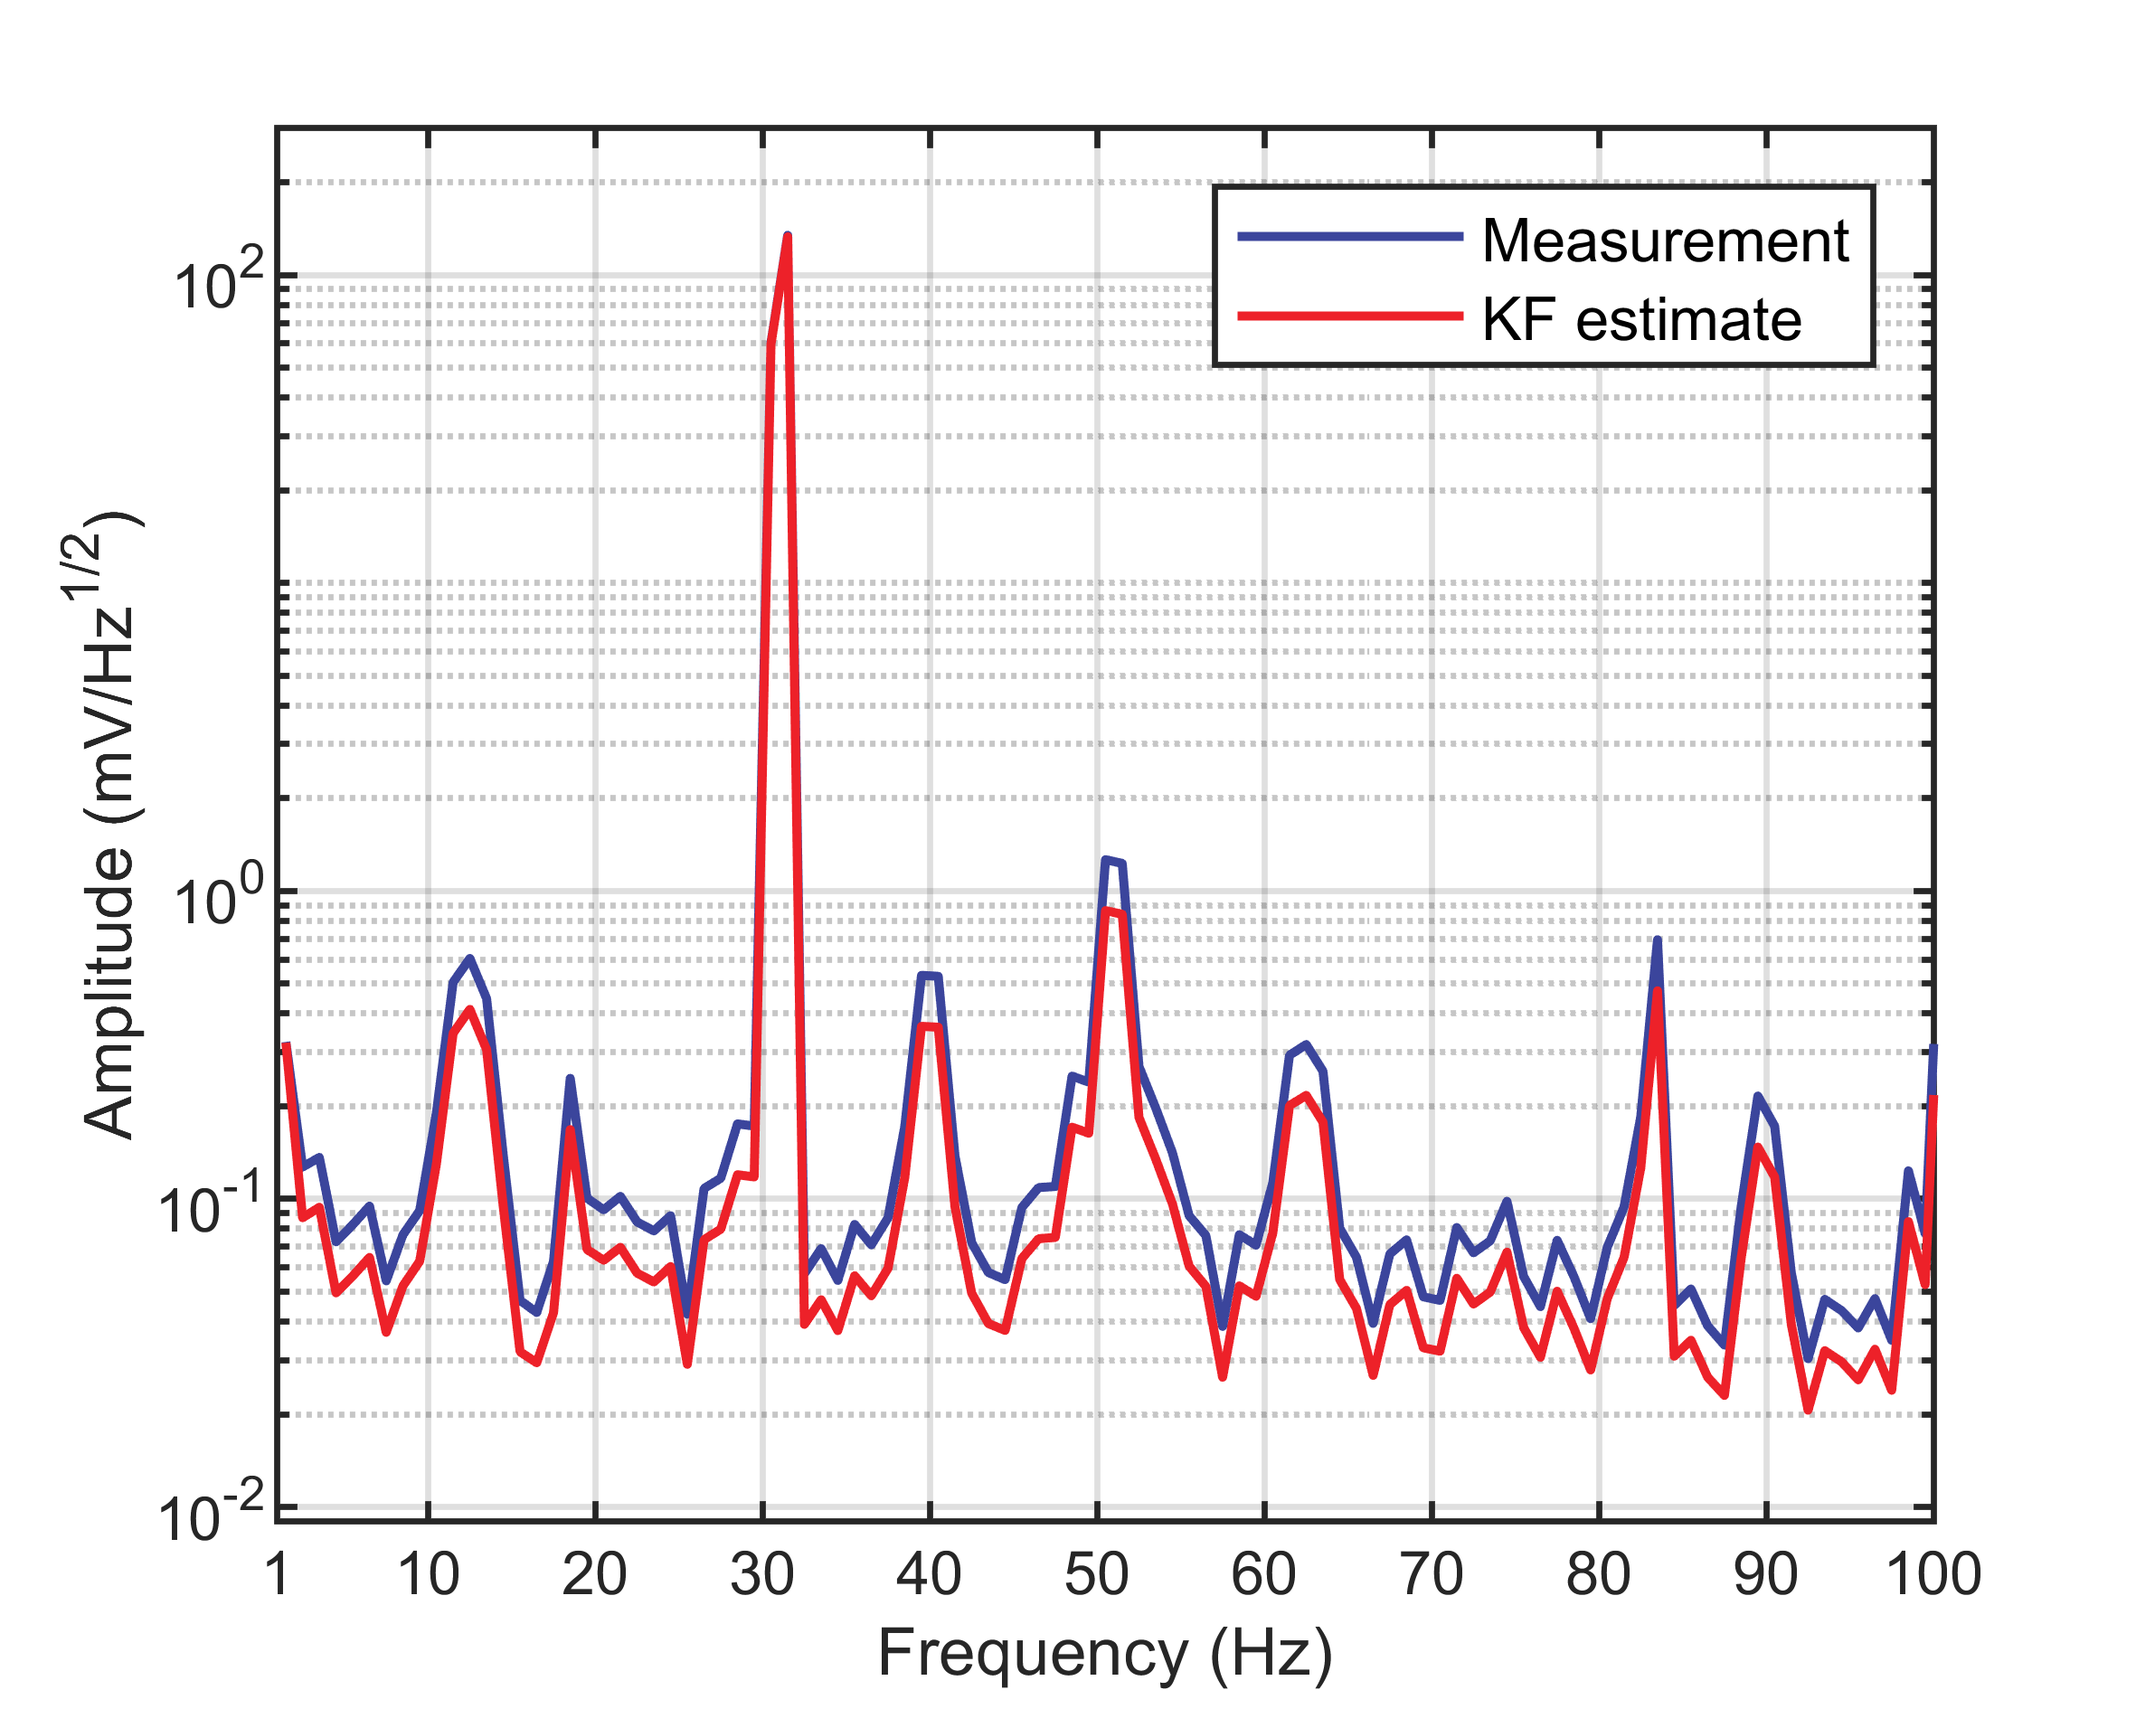
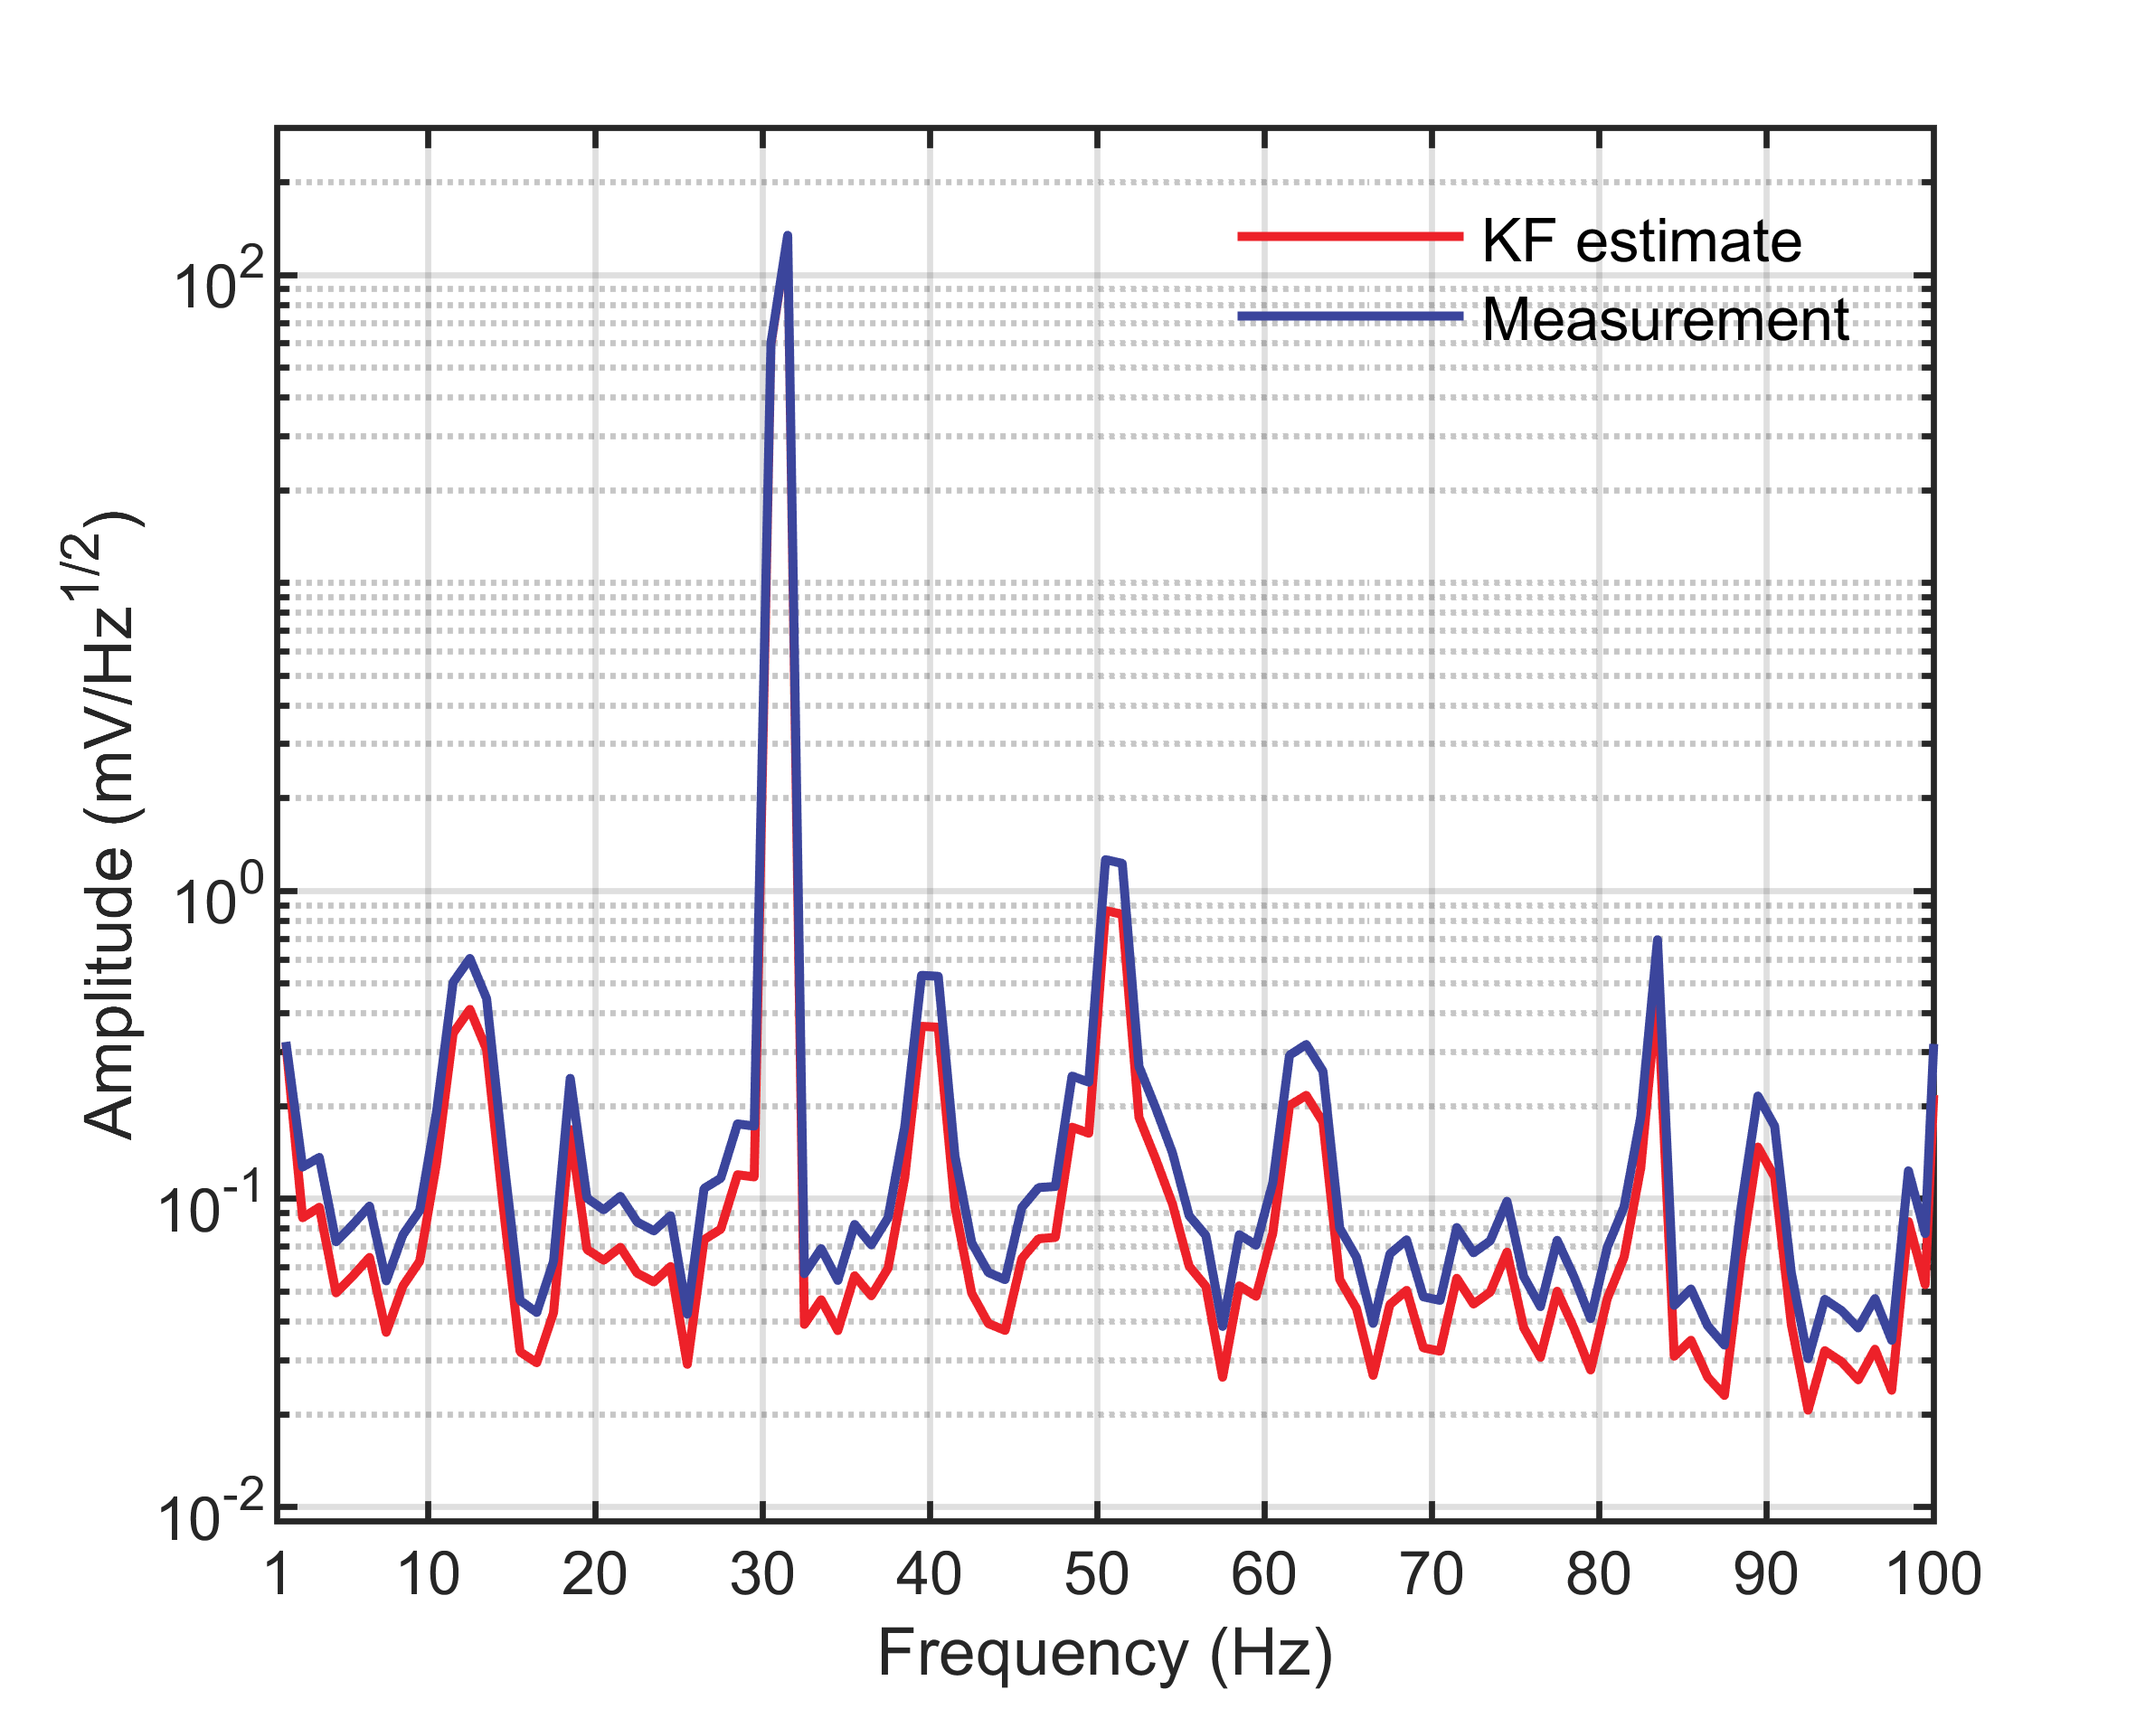
KF plot

diff --git a/err_plot_v2.m b/err_plot_v2.m
@@ -15,7 +15,7 @@ track_color = [237, 33, 41] / 255; % RGB values for #ED2129
 measure_color = [0.23, 0.27, 0.61];
 % Define figure size
 
-figure('Units', 'inches', 'Position', [1, 1, 10, 8]); % Width: 8 inches, Height: 6 inches
+figure('Units', 'centimeters', 'Position', [2, 2, 20, 26]);
 % First subplot: Plotting ideal response, measurement, and KF estimate
 subplot(2, 1, 1); % Divide the figure into 1 row, 2 columns, and select the first subplot
 % Plot reference curve as a line
@@ -23,10 +23,10 @@ plot(time_period, ref_curve, 'k-', 'LineWidth', 1);
 hold on;
 
 % Plot measured data with markers and no line
-plot(time_period, measure_mean, 'Marker', 's', 'LineWidth', 1.5,'MarkerSize', 8, 'LineStyle', 'none', 'Color', measure_color);
+plot(time_period, measure_mean, 'Marker', 's', 'LineWidth', 1.5,'MarkerSize', 6, 'LineStyle', 'none', 'Color', measure_color);
 
 % Plot tracked data with markers and no line
-plot(time_period, track_mean, 'Marker', 'o', 'LineWidth', 1.2,'MarkerSize', 8, 'LineStyle', 'none', 'Color', track_color);
+plot(time_period, track_mean, 'Marker', 'o', 'LineWidth', 1.2,'MarkerSize', 6, 'LineStyle', 'none', 'Color', track_color);
 % Remove x-label from the first subplot
 xticklabels({});
 % Customize the plot
@@ -41,7 +41,7 @@ grid on;
 hold off;
 
 % Adjust figure properties for publication quality
-set(gca, 'FontSize', 12); % Increase font size
+set(gca, 'FontSize', 16); % Increase font size
 set(gca, 'LineWidth', 1.5); % Increase line width
 set(gca, 'TickDir', 'in'); % Set tick direction
 set(gca, 'Box', 'on'); % Remove box around the plot
@@ -80,6 +80,10 @@ measure_upper = measure_norm + measure_std / rms_value;
 track_lower = track_norm - track_std / rms_value;
 track_upper = track_norm + track_std / rms_value;
 
+mean(abs(measure_norm))
+mean(abs(track_norm))
+
+
 measure_lower = reshape(measure_lower, 1, 50);
 measure_upper = reshape(measure_upper, 1, 50);
 
@@ -99,16 +103,16 @@ plot(time_period, measure_norm, 'LineWidth', 1.5, 'Color', measure_color);
 plot(time_period, track_norm, 'LineWidth', 1.5, 'Color', track_color);
 
 % Customize the plot
-xlabel('Time (ms)', 'FontSize', 10);
-ylabel('\Deltay / \deltaB_{rms}', 'FontSize', 10);
+xlabel('Time (ms)', 'FontSize', 16);
+ylabel('\Deltay / \deltaB_{rms}', 'FontSize', 16);
 legend('Measurement error', 'KF estimate error', 'FontSize', 14, 'Box', 'off');
 grid on;
 box on;
 xlim([0.5, 50.5]);
 %ylim([-2, 2]); % Adjust the y-axis limits as needed
-
+yticks([-0.2,-0.1,0,0.1,0.2]);
 % Adjust figure properties for publication quality
-set(gca, 'FontSize', 12); % Decrease font size slightly for publication
+set(gca, 'FontSize', 16); % Decrease font size slightly for publication
 set(gca, 'LineWidth', 1.5); % Increase line width
 set(gca, 'TickDir', 'in'); % Set tick direction
 set(gcf, 'Color', 'w'); % Set background color to white
@@ -123,9 +127,9 @@ ax2.Position(4) = ax2.Position(4) + 0.06;
 linkaxes([ax1, ax2], 'x');
 
 
-text(-0.05, 1.89, '(a)', 'Units', 'normalized', 'FontSize', 14, 'FontWeight', 'bold', 'HorizontalAlignment', 'right');
+text(-0.08, 1.89, '(a)', 'Units', 'normalized', 'FontSize', 16, 'FontWeight', 'bold', 'HorizontalAlignment', 'right');
 % Add label "(b)" outside the plot box
-text(-0.05, 0.99, '(b)', 'Units', 'normalized', 'FontSize', 14, 'FontWeight', 'bold', 'HorizontalAlignment', 'right');
+text(-0.08, 0.99, '(b)', 'Units', 'normalized', 'FontSize', 16, 'FontWeight', 'bold', 'HorizontalAlignment', 'right');
 
 
 print('KF_track_error', '-dpng', '-r600'); % Specify the desired image format and resolution

diff --git a/plot_adjust_dynamic.m b/plot_adjust_dynamic.m
@@ -10,30 +10,30 @@ track_color = [237, 33, 41] / 255; % RGB values for #ED2129
 input_color = [0.23, 0.27, 0.61];
 
 % Create figure
-figure('Units', 'inches', 'Position', [1, 1, 10, 8]); % Adjust the figure size and position
+figure('Units', 'centimeters', 'Position', [2, 2, 20, 26]);; % Adjust the figure size and position
 
 % Create the first subplot
 subplot(2, 1, 1);
 hold on; % Enable holding multiple plots in the same subplot
 plot(time_axis, input_curve, 'Color', input_color, 'LineWidth', 1.5); % Plot the input_curve with a linewidth of 2
 plot(time_axis, track_input, 'Color', track_color, 'LineWidth', 1.5);
-ylabel('Amplitude (mV)', 'FontSize', 12); % Adjust font size
+ylabel('Amplitude (mV)', 'FontSize', 16); % Adjust font size
 hold off; % Disable holding multiple plots in the subplot
 
 % Remove x-label from the first subplot
 xticklabels({});
-
+legend('Applied waveform', 'KF estimate','FontSize', 10, 'Box', 'off','Location', 'northeast');
 % Add grid to the subplot
 grid on;
 
 % Set y-axis limits in the subplot
-ylim([-17, 15.5]);
+ylim([-20, 20.5]);
 
 % Adjust the tick labels font size in the subplot
-set(gca, 'FontSize', 12);
+set(gca, 'FontSize', 16);
 
 % Adjust the line widths for better visibility in print
-set(findobj(gca, 'Type', 'Line'), 'LineWidth', 1.2);
+set(findobj(gca, 'Type', 'Line'), 'LineWidth', 1.5);
 
 % Adjust the axes properties
 ax = gca;
@@ -46,33 +46,36 @@ measure_curve = load('./data/Measure_unknown.txt');
 track_measure = load('./data/KF_track_unknown_measure.txt');
 
 hold on; % Enable holding multiple plots in the same subplot
-plot(time_axis, track_measure, 'Color', track_color, 'LineWidth', 1.5); % Plot the track_input with a linewidth of 2
 scatter(time_axis(1:3:end), measure_curve(1:3:end), 'MarkerFaceColor', input_color, 'MarkerEdgeColor', input_color, 'SizeData', 8); % Plot the scatter points
+plot(time_axis, track_measure, 'Color', track_color, 'LineWidth', 1.5); % Plot the track_input with a linewidth of 2
+
 hold off; % Disable holding multiple plots in the subplot
 
 % Add labels and title to the subplot
-xlabel('Time (s)', 'FontSize', 12); % Adjust font size
-ylabel('Response (mV)', 'FontSize', 12); % Adjust font size
-% Add label "(a)" outside the plot box
-text(-0.05, 1.89, '(a)', 'Units', 'normalized', 'FontSize', 12, 'FontWeight', 'bold', 'HorizontalAlignment', 'right');
+xlabel('Time (s)', 'FontSize', 16); % Adjust font size
+ylabel('Response (mV)', 'FontSize', 16); % Adjust font size
 % Add grid to the subplot
 grid on;
-
+legend('Measurement', 'KF estimate','FontSize', 10, 'Box', 'off','Location', 'northeast');
 % Set y-axis limits in the subplot
-ylim([-24, 21]);
+ylim([-24, 25]);
 
 % Adjust the tick labels font size in the subplot
-set(gca, 'FontSize', 12);
+set(gca, 'FontSize', 16);
 
 % Adjust the line widths for better visibility in print
-set(findobj(gca, 'Type', 'Line'), 'LineWidth', 1.2);
+set(findobj(gca, 'Type', 'Line'), 'LineWidth', 1.5);
 
 % Adjust the axes properties
 ax = gca;
 ax.LineWidth = 0.8;
 ax.Box = 'on';
+
+% Add label "(a)" outside the plot box
+text(-0.08, 1.89, '(a)', 'Units', 'normalized', 'FontSize', 16, 'FontWeight', 'bold', 'HorizontalAlignment', 'right');
+
 % Add label "(b)" outside the plot box
-text(-0.05, 0.99, '(b)', 'Units', 'normalized', 'FontSize', 12, 'FontWeight', 'bold', 'HorizontalAlignment', 'right');
+text(-0.08, 0.99, '(b)', 'Units', 'normalized', 'FontSize', 16, 'FontWeight', 'bold', 'HorizontalAlignment', 'right');
 
 
 % Reduce the vertical spacing between the subplots

diff --git a/plot_delay.m b/plot_delay.m
@@ -2,10 +2,15 @@ close all
 clear
 
 % Convert the hexadecimal color code to RGB values
-track_color = [237, 33, 41] / 255; % RGB values for #ED2129
-measure_color = [0.23, 0.27, 0.61];
 
-figure('Units', 'inches', 'Position', [1, 1, 10, 7]); % Width: 6.5 inches, Height: 4.5 inches
+
+delay3_color = [251, 83, 82]/255;
+delay1_color = [254, 199, 107]/255;
+delay0_color = [2, 46, 89]/255;
+curve_color = [12, 143, 215]/255;
+
+
+figure('Units', 'centimeters', 'Position', [2, 2, 10, 8]);
 ref_curve = load('./data/KF_ref_delay.txt');
 delay0 = load('./data/KF_y_delay0.txt');
 delay1 = load('./data/KF_y_delay1.txt');
@@ -13,29 +18,29 @@ delay2 = load('./data/KF_y_delay2.txt');
 delay3 = load('./data/KF_y_delay3.txt');
 
 show_num = 95;
-time_axis = 0:1e-3:1e-3*(show_num-1);
+time_axis = 0:1:1*(show_num-1);
 
 % Plotting the reference curve with measure_color and increased linewidth
-plot(time_axis, ref_curve(1:show_num), '-', 'Color', measure_color, 'LineWidth', 2.5);
+plot(time_axis, ref_curve(1:show_num), '-', 'Color', curve_color, 'LineWidth', 1.5);
 hold on;
 
 % Plotting delay0, delay1, delay2, and delay3 as dashed lines
-plot(time_axis, delay0(1:show_num), '--', 'Color', [0.5, 0.5, 0.6], 'LineWidth', 2.5);
-% plot(time_axis, delay1(1:show_num), '--', 'LineWidth', 1.5);
+plot(time_axis, delay0(1:show_num), '--', 'Color', delay0_color, 'LineWidth', 1.5);
+plot(time_axis, delay1(1:show_num), '--','Color', delay1_color, 'LineWidth', 1.5);
 % plot(time_axis, delay2(1:show_num), '--', 'LineWidth', 1.5);
-plot(time_axis, delay3(1:show_num), '--', 'Color', track_color, 'LineWidth', 2.5);
+plot(time_axis, delay3(1:show_num), '--', 'Color', delay3_color, 'LineWidth', 1.5);
 
-legend('Ideal Response', '\tau = 0', '\tau = 3', 'FontSize', 14, 'Box', 'off');
-xlabel('Time (s)', 'FontSize', 12);
-ylabel('Response (mV)', 'FontSize', 12);
+legend('Ref', '\tau = 0', '\tau = 1','\tau = 3', 'FontSize', 8, 'Box', 'off' ,'Location', 'southwest');
+xlabel('Time (ms)', 'FontSize', 10);
+ylabel('Response (mV)', 'FontSize', 10);
 
 
 % Set the number of grid lines you want on the x and y axes
-numXGridLines = 3;
+numXGridLines = 5;
 numYGridLines = 5;
 
 % Adjust the tick positions and labels on the x-axis
-xTickPositions = linspace(0.01, 0.09, numXGridLines);
+xTickPositions = linspace(0, 80, numXGridLines);
 set(gca, 'XTick', xTickPositions);
 
 % Adjust the tick positions and labels on the y-axis
@@ -46,10 +51,10 @@ set(gca, 'YTick', yTickPositions);
 grid on;
 
 %set(gca, 'FontName', 'Times New Roman', 'FontSize', 12);
-xlim([0, 0.095]);
+xlim([0, 94]);
 
 % Adjust figure properties for publication quality
-set(gca, 'FontSize', 12); % Decrease font size slightly for publication
+set(gca, 'FontSize', 8); % Decrease font size slightly for publication
 set(gca, 'LineWidth', 1.5); % Increase line width
 set(gca, 'TickDir', 'in'); % Set tick direction
 set(gcf, 'Color', 'w'); % Set background color to white

diff --git a/KF_plot.m b/KF_plot.m
@@ -45,7 +45,7 @@ xlabel('Frequency (Hz)', 'FontSize', 10);
 ylabel('Amplitude (mV/Hz^{1/2})', 'FontSize', 10);
 
 % Add legend
-legend('KF estimate', 'Measurement', 'FontSize', 8);
+legend('KF estimate', 'Measurement', 'FontSize', 8,'box','off');
 
 % Adjust the line widths for better visibility in print
 set(findobj(gca, 'Type', 'Line'), 'LineWidth', 1.2);
